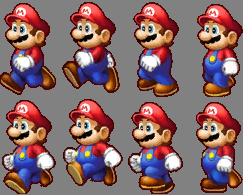
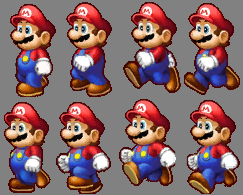
исправил бег

diff --git a/game_script.py b/game_script.py
@@ -1,12 +1,12 @@
 import pygame
-from miscell import load_image
-from miscell import sky, XLenWin, YLenWin, clock, FPS, F_jump, g
-
+from MiscellDefAndVars import load_image, EventMarioRun, MarioFrameRate
+from MiscellDefAndVars import sky, XLenWin, YLenWin, clock, FrameRate, F_jump, g, format_size, EventFps, FPS
 
 class Mario(pygame.sprite.Sprite):
     mario_r = load_image('mario_r.png', -1)
     mario_l = load_image('mario_l.png', -1)
     mario_run_r = load_image('mario_run_r.png', -1)
+    mario_run_l = load_image('mario_run_l.png', -1)
 
     def __init__(self, group):
         super().__init__(group)
@@ -18,44 +18,83 @@ class Mario(pygame.sprite.Sprite):
         self.multipl_jump = 1.0
         self.jump = False
         self.multipl_fall = 1.0
+        self.run = False
+        self.direct = True # True - право, False - лево
+        self.frames_for_run_r = self.cut_sheet(Mario.mario_run_r, 4, 2)
+        self.frames_for_run_l = self.cut_sheet(Mario.mario_run_l, 4, 2)
+        self.frames_run = 8
+        self.current_frame = 0
+
+    def cut_sheet(self, sheet, columns, rows):
+        rect = pygame.Rect(0, 0, sheet.get_width() // columns,
+                                sheet.get_height() // rows)
+        listt = []
+        for j in range(rows):
+            for i in range(columns):
+                frame_location = (rect.w * i, rect.h * j)
+                listt.append(sheet.subsurface(pygame.Rect(
+                    frame_location, rect.size)))
+        listt = format_size(listt)
+        return listt
+
+    def update(self):
+        self.current_frame = (self.current_frame + 1) % self.frames_run
+        if self.direct:
+            self.image = self.frames_for_run_r[self.current_frame]
+        else:
+            self.image = self.frames_for_run_l[self.current_frame]
 
 
 def main(screen):
     global F_jump
+    pygame.time.set_timer(EventFps, FrameRate)
+    pygame.time.set_timer(EventMarioRun, MarioFrameRate)
     mario_group = pygame.sprite.Group()
     mario = Mario(mario_group)
     run = True
     while run:
-        tick = clock.tick()
+        mario.run = False
+        key = pygame.key.get_pressed()
+        if key[pygame.K_a] or key[pygame.K_LEFT]:
+            mario.rect.x -= 3
+            mario.direct = False
+            mario.run = True
+        if key[pygame.K_d] or key[pygame.K_RIGHT]:
+            mario.rect.x += 3
+            mario.direct = True
+            mario.run = True
+        if key[pygame.K_SPACE]:
+            mario.jump = True
+        if mario.jump:
+            mario.multipl_fall = 0
+            if mario.multipl_jump >= 0:
+                mario.rect.y -= round(mario.multipl_jump * F_jump)
+                mario.multipl_jump -= 0.1
+            else:
+                mario.multipl_jump = 1.0
+                mario.jump = False
+        else:
+            mario.multipl_fall += 0.1
+            mario.rect.y += round(mario.multipl_fall * g)
         events = pygame.event.get()
         for event in events:
             if event.type == pygame.QUIT:
                 run = False
-        key = pygame.key.get_pressed()
-        if key[pygame.K_a] or key[pygame.K_LEFT]:
-            mario.rect.x -= 3
-            mario.image = Mario.mario_l
-        if key[pygame.K_d] or key[pygame.K_RIGHT]:
-            mario.rect.x += 3
-            mario.image = Mario.mario_r
-        if key[pygame.K_SPACE]:
-            mario.jump = True
-        if tick % 1000 == 0:
-            if mario.jump:
-                mario.multipl_fall = 0
-                if mario.multipl_jump >= 0:
-                    mario.rect.y -= round(mario.multipl_jump * F_jump)
-                    mario.multipl_jump -= 0.1
-                else:
-                    mario.multipl_jump = 1.0
-                    mario.jump = False
+            if event.type == pygame.KEYDOWN and event.key == pygame.K_RIGHT:
+                mario.direct = True
+            if event.type == pygame.KEYDOWN and event.key == pygame.K_LEFT:
+                mario.direct = False
+            if event.type == EventFps:
+                mario_group.draw(screen)
+                pygame.display.flip()
+                screen.fill(sky)
+            if event.type == EventMarioRun and mario.run:
+                mario.update()
+        if not mario.run:
+            if mario.direct:
+                mario.image = Mario.mario_r
             else:
-                mario.multipl_fall += 0.1
-                mario.rect.y += round(mario.multipl_fall * g)
-        mario_group.draw(screen)
-        if tick % 24 == 0:
-            pygame.display.flip()
-            screen.fill(sky)
+                mario.image = Mario.mario_l
         clock.tick(FPS)
     pygame.quit()
     exit('закрыт код')

diff --git a/MiscellDefAndVars.py b/MiscellDefAndVars.py
@@ -5,10 +5,16 @@ C_BLACK = pygame.Color('black')
 sky = pygame.Color(127, 199, 255)
 XLenWin = 800
 YLenWin = 450
-FPS = 100
-F_jump = 20
-g = 3
+XMario = 32
+YMario = 64
+FrameRate = 10
+EventFps = 1
+FPS = 50
+F_jump = 23
+g = 10
 clock = pygame.time.Clock()
+EventMarioRun = 2
+MarioFrameRate = 125
 
 
 screen = pygame.display.set_mode((XLenWin, YLenWin))
@@ -25,3 +31,9 @@ def load_image(name, ColorKey=None):
     else:
         image = image.convert_alpha()
     return image
+
+
+def format_size(ListWithImg):
+    for _ in range(len(ListWithImg)):
+        ListWithImg[_] = pygame.transform.scale(ListWithImg[_], (XMario, YMario))
+    return ListWithImg

diff --git a/win_choose_lvl.py b/win_choose_lvl.py
@@ -1,0 +1,3 @@
+import pygame, os
+
+
